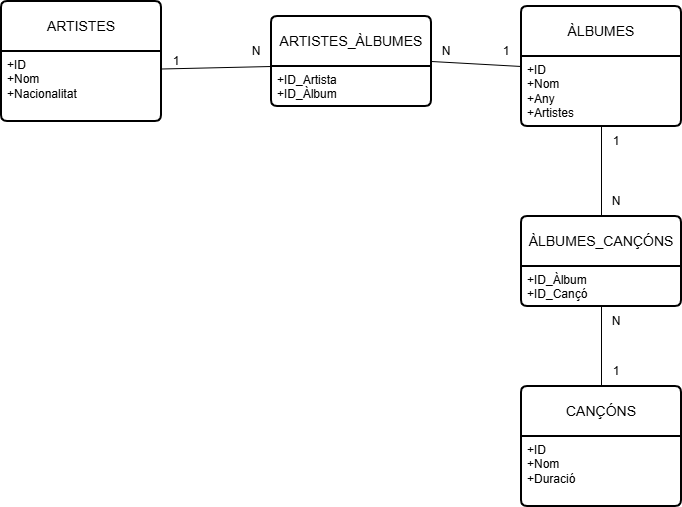
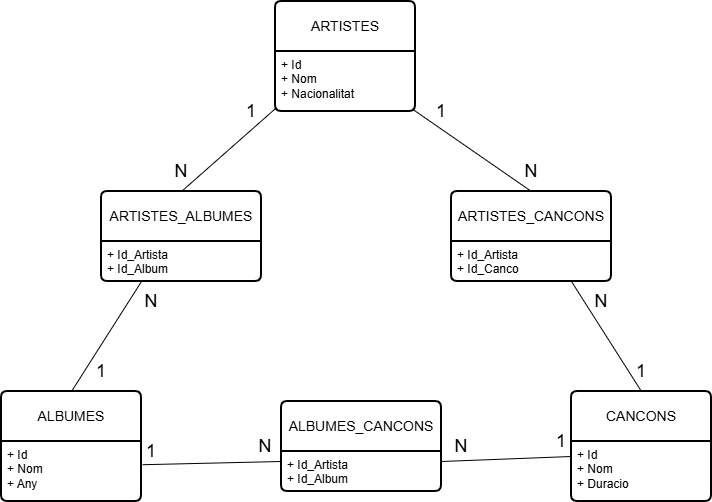
CRUD cançons amb relació amb artistes i albumes

diff --git a/NodeSqlite/public/app.js b/NodeSqlite/public/app.js
@@ -123,66 +123,6 @@ const albumNameDel = document.getElementById("album-name-del");
 
 const albumArtistsSelect = document.getElementById("album-artists");
 
-//Crear nou album
-formAlbumAdd.addEventListener("submit", async (event) => {
-  event.preventDefault();
-
-  const name = albumNameInput.value.trim();
-  const year = albumYearInput.value.trim();
-  if (!name || !year) return;
-
-  const res = await fetch("/api/AddAlbum", {
-    method: "POST",
-    headers: {
-      "Content-Type": "application/json"
-    },
-    body: JSON.stringify({ name, year })
-  });
-
-  const message = await res.text();
-  albumOutput.textContent = message;
-  if (res.ok) formAlbumAdd.reset();
-});
-
-//Consultar els albums
-loadAlbumButton.addEventListener("click", async () => {
-
-  let text = "albumes";
-  const res = await fetch("/api/albumes", {
-    method: "POST",
-    headers: {
-      "Content-Type": "application/json"
-    },
-
-    body: JSON.stringify({ data: text })
-  });
-
-  const json = await res.json();
-  albumOutput.textContent = JSON.stringify(json.result, null, 2);
-
-});
-
-// Deletar album
-formDelAlbum.addEventListener("submit", async (event) => {
-  event.preventDefault();//per defecte recarregaria la pagina així que evitem això.
-
-  const name = albumNameDel.value.trim();
-  if (!name) return;
-
-  const res = await fetch("/api/DelAlbum", {
-    method: "DELETE",
-    headers: {
-      "Content-Type": "application/json"
-    },
-    body: JSON.stringify({ data: name })
-  });
-
-  const message = await res.text();
-  albumOutput.textContent = message;
-  if (res.ok) formDelAlbum.reset();
-  
-});
-
 // Funcció per carregar artistes en select
 async function loadArtistsToSelect() {
   const res = await fetch("/api/artists", {
@@ -204,7 +144,7 @@ async function loadArtistsToSelect() {
 // Carregar en iniciar
 loadArtistsToSelect();
 
-// Actualizar el event de submit de álbum
+//Crear nou album
 formAlbumAdd.addEventListener("submit", async (event) => {
   event.preventDefault();
 
@@ -233,3 +173,163 @@ formAlbumAdd.addEventListener("submit", async (event) => {
     loadArtistsToSelect(); // Recarrega per garantitzar la sincronia
   }
 });
+
+//Consultar els albums
+loadAlbumButton.addEventListener("click", async () => {
+
+  let text = "albumes";
+  const res = await fetch("/api/albumes", {
+    method: "POST",
+    headers: {
+      "Content-Type": "application/json"
+    },
+
+    body: JSON.stringify({ data: text })
+  });
+
+  const json = await res.json();
+  albumOutput.textContent = JSON.stringify(json.result, null, 2);
+
+});
+
+// Deletar album
+formDelAlbum.addEventListener("submit", async (event) => {
+  event.preventDefault();
+
+  const name = albumNameDel.value.trim();
+  if (!name) return;
+
+  const res = await fetch("/api/DelAlbum", {
+    method: "DELETE",
+    headers: {
+      "Content-Type": "application/json"
+    },
+    body: JSON.stringify({ data: name })
+  });
+
+  const message = await res.text();
+  albumOutput.textContent = message;
+  if (res.ok) formDelAlbum.reset();
+  
+});
+
+//--------------------------------------------------------------------------------------
+
+const formCancoAdd = document.getElementById("canco-form-create");
+const cancoNameInput = document.getElementById("canco-name");
+const cancoDurationInput = document.getElementById("canco-duration");
+
+const loadCanconsButton = document.getElementById("get-cancons");
+const cancoOutput = document.getElementById("canco-output");
+
+const formDelCanco = document.getElementById("canco-form-del");
+const cancoNameDel = document.getElementById("canco-name-del");
+
+const artistsCanconsSelect = document.getElementById("artists_cancons");
+const albumesCanconsSelect = document.getElementById("albumes_cancons");
+
+// Funcio per carregar els selects de artistes i cancons
+async function loadDataForSongs() {
+  // Carregar Artistas
+  const resArtists = await fetch("/api/artists", {
+    method: "POST",
+    headers: { "Content-Type": "application/json" },
+    body: JSON.stringify({ data: "artists" })
+  });
+  if (!resArtists.ok) {
+    console.error("Error en carregar artistes:", resArtists.status);
+    return;
+  }
+  const artists = await resArtists.json();
+  console.log("Artistes carregats:", artists);
+  
+  artistsCanconsSelect.innerHTML = "";
+  artists.result.forEach(a => {
+    artistsCanconsSelect.innerHTML += `<option value="${a.id}">${a.name}</option>`;
+  });
+
+  // Carregar Álbuns
+  const resAlbums = await fetch("/api/albumes", { 
+    method: "POST",
+    headers: { "Content-Type": "application/json" },
+    body: JSON.stringify({ data: "albumes" })
+  });
+  if (!resAlbums.ok) {
+    console.error("Erro ao carregar albumes:", resAlbums.status);
+    return;
+  }
+  const albums = await resAlbums.json();
+  console.log("Albumes carregats:", albums);
+
+  albumesCanconsSelect.innerHTML = "";
+  albums.result.forEach(al => {
+    albumesCanconsSelect.innerHTML += `<option value="${al.id}">${al.name}</option>`;
+  });
+}
+
+// Crear nova canço
+formCancoAdd.addEventListener("submit", async (e) => {
+  e.preventDefault();
+
+  const name = cancoNameInput.value.trim();
+  const duration = cancoDurationInput.value.trim();
+  const selectedArtists = Array.from(artistsCanconsSelect.selectedOptions).map(opt => opt.value);
+  const selectedAlbums = Array.from(albumesCanconsSelect.selectedOptions).map(opt => opt.value);
+
+  const res = await fetch("/api/AddCanco", {
+    method: "POST",
+    headers: { "Content-Type": "application/json" },
+    body: JSON.stringify({ 
+      name, 
+      duration, 
+      artistIds: selectedArtists, 
+      albumIds: selectedAlbums 
+    })
+  });
+
+  cancoOutput.textContent = await res.text();
+  if (res.ok) formCancoAdd.reset();
+});
+
+// Recarregar la pàgina
+if (formCancoAdd) loadDataForSongs();
+
+// Consultar cançons
+loadCanconsButton.addEventListener("click", async () => {
+
+  let text = "canco";
+  const res = await fetch("/api/cancons", {
+    method: "POST",
+    headers: {
+      "Content-Type": "application/json"
+    },
+
+    body: JSON.stringify({ data: text })
+  });
+
+  const json = await res.json();
+  cancoOutput.textContent = JSON.stringify(json.result, null, 2);
+
+});
+
+// Deletar album
+formDelCanco.addEventListener("submit", async (event) => {
+  event.preventDefault();
+
+  const name = cancoNameDel.value.trim();
+  if (!name) return;
+
+  const res = await fetch("/api/DelCanco", {
+    method: "DELETE",
+    headers: {
+      "Content-Type": "application/json"
+    },
+    body: JSON.stringify({ data: name })
+  });
+
+  const message = await res.text();
+  cancoOutput.textContent = message;
+  if (res.ok) formDelCanco.reset();
+  
+});
+

diff --git a/NodeSqlite/server.js b/NodeSqlite/server.js
@@ -74,6 +74,17 @@ db.serialize(() => {
     )
   `);
 
+  //Creació de la taula artists_cancons
+  db.run(`
+    CREATE TABLE IF NOT EXISTS artists_cancons (
+      id_artista INTEGER,
+      id_canco INTEGER,
+      PRIMARY KEY (id_artista, id_canco),
+      CONSTRAINT FK_ID_ARTISTES FOREIGN KEY (id_artista) REFERENCES artists(id),
+      CONSTRAINT FK_ID_CANCONS FOREIGN KEY (id_canco) REFERENCES canco(id)
+    )
+  `);
+
   db.get("SELECT id FROM artists WHERE name = ?", ["Txarango"], (error, row) => {
     if (error) {
       console.log("Error comprovant dades inicials:", error.message);
@@ -226,5 +237,65 @@ app.delete("/api/DelAlbum",  (req, res) => {
       return;
     }
     res.status(201).type("text").send(`Album eliminat: ${name}`);
+  });
+});
+
+//------------------------------------------------------------------------------
+
+// Adicionar canco POST
+app.post("/api/AddCanco",  (req, res) => {
+  const { name, duration, artistIds, albumIds } = req.body;  
+
+  db.run("INSERT INTO canco (name, duracio) VALUES (?, ?)", [name, duration], function(error) {
+    if (error) {
+      res.status(500).type("text").send(`Error: ${error.message}`);
+      return;
+    }
+
+    const cancoId = this.lastID; // Obtener l'ID de la canço
+
+    // Relacionar amb artistes
+    if (artistIds && artistIds.length > 0) {
+      const artistPlaceholders = artistIds.map(() => "(?, ?)").join(",");
+      const artistValues = [];
+      artistIds.forEach(id => artistValues.push(id, cancoId));
+      db.run(`INSERT INTO artists_cancons (id_artista, id_canco) VALUES ${artistPlaceholders}`, artistValues);
+    }
+
+    // Relacionar amb albumes
+    if (albumIds && albumIds.length > 0) {
+      const albumPlaceholders = albumIds.map(() => "(?, ?)").join(",");
+      const albumValues = [];
+      albumIds.forEach(id => albumValues.push(id, cancoId));
+      db.run(`INSERT INTO albumes_cancons (id_album, id_canco) VALUES ${albumPlaceholders}`, albumValues);
+    }
+    
+    res.status(201).send(`Canço '${name}' desada!`);
+
+  });
+});
+
+// Consultar cançons GET
+app.post("/api/cancons",  (req, res) => {
+  const table = req.body.data;
+  db.all(`SELECT * FROM ${table} ORDER BY id`, (err, rows) => {
+
+    if (err){
+      return res.status(500).json({ error: err.message });
+    }
+    console.log(rows);
+    res.json({ result: rows });
+  });
+});
+
+// Deletar album DELETE
+app.delete("/api/DelCanco",  (req, res) => {
+  const name = req.body.data;
+  db.run("DELETE FROM canco WHERE (name) = (?)", [name], (error) => {
+    if (error) {
+      res.status(500).type("text").send(`Error: ${error.message}`);
+      return;
+    }
+    res.status(201).type("text").send(`Canco eliminada: ${name}`);
   });
 });

diff --git a/NodeSqlite/public/index.html b/NodeSqlite/public/index.html
@@ -125,6 +125,58 @@
       </form>
     </section>
 
+    <!-------------------------------------------------------------------------------------------->
+
+        <!-- Section per afegir una canço -->
+        <section class="card">
+        <h2>1) Afegir canço</h2>
+        <form id="canco-form-create">
+            <div>
+            <label for="canco-name">Nom de la canço</label>
+            <input id="canco-name" name="name" required />
+            </div>
+            <div>
+            <label for="canco-duration">Duració de la canció</label>
+            <input id="canco-duration" type="time" required/>
+            </div>
+            
+            <div>
+            <label for="artists_cancons">Seleccionar Artistes (Ctrl + click per molts)</label>
+            <select id="artists_cancons" multiple style="width: 100%; height: 100px;"></select>
+            </div>
+            <div>
+            <label for="albumes_cancons">Seleccionar Albumes (Ctrl + click per molts)</label>
+            <select id="albumes_cancons" multiple style="width: 100%; height: 100px;"></select>
+            </div>
+            <div>
+            <button type="submit">Desar</button>
+            </div>
+        </form>
+        </section>
+
+        <!-- Section per consultar cançons -->
+        <section class="card">
+        <h2>2) Consultar cançons</h2>
+        <p id="canco-output">Prem "Carregar cançons" per veure dades.</p>
+        <div class="row">
+            <button id="get-cancons" type="button" class="btn-small">Carregar cançons</button>
+        </div>
+        </section>
+
+        <!-- Section per eliminar una canco -->
+        <section class="card">
+        <h2>3) Deletar canço</h2>
+        <form id="canco-form-del">
+            <div>
+            <label for="canco-name-del">Nom de la canço</label>
+            <input id="canco-name-del" name="name" required />
+            </div>
+            <div>
+            <button type="submit">Delete</button>
+            </div>
+        </form>
+        </section>
+
   </main>
 
   <script src="app.js"></script>

diff --git a/NodeSqlite/public/styles.css b/NodeSqlite/public/styles.css
@@ -111,7 +111,7 @@ button:hover {
   color: var(--danger);
 }
 
-#artist-output, #album-output {
+#artist-output, #album-output, #canco-output {
   margin-top: 12px;
   padding: 10px;
   border-radius: 8px;
